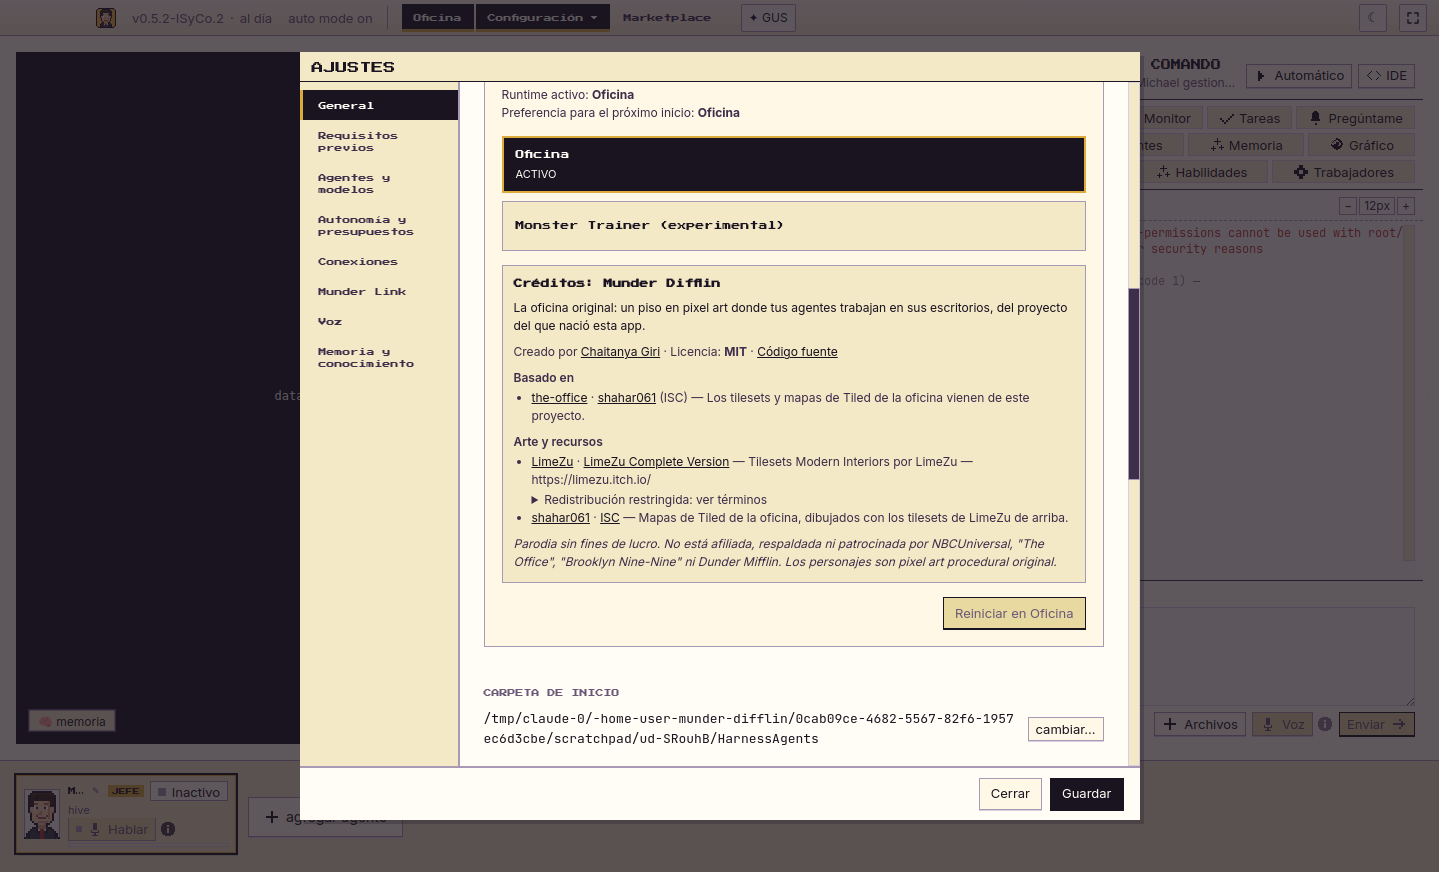
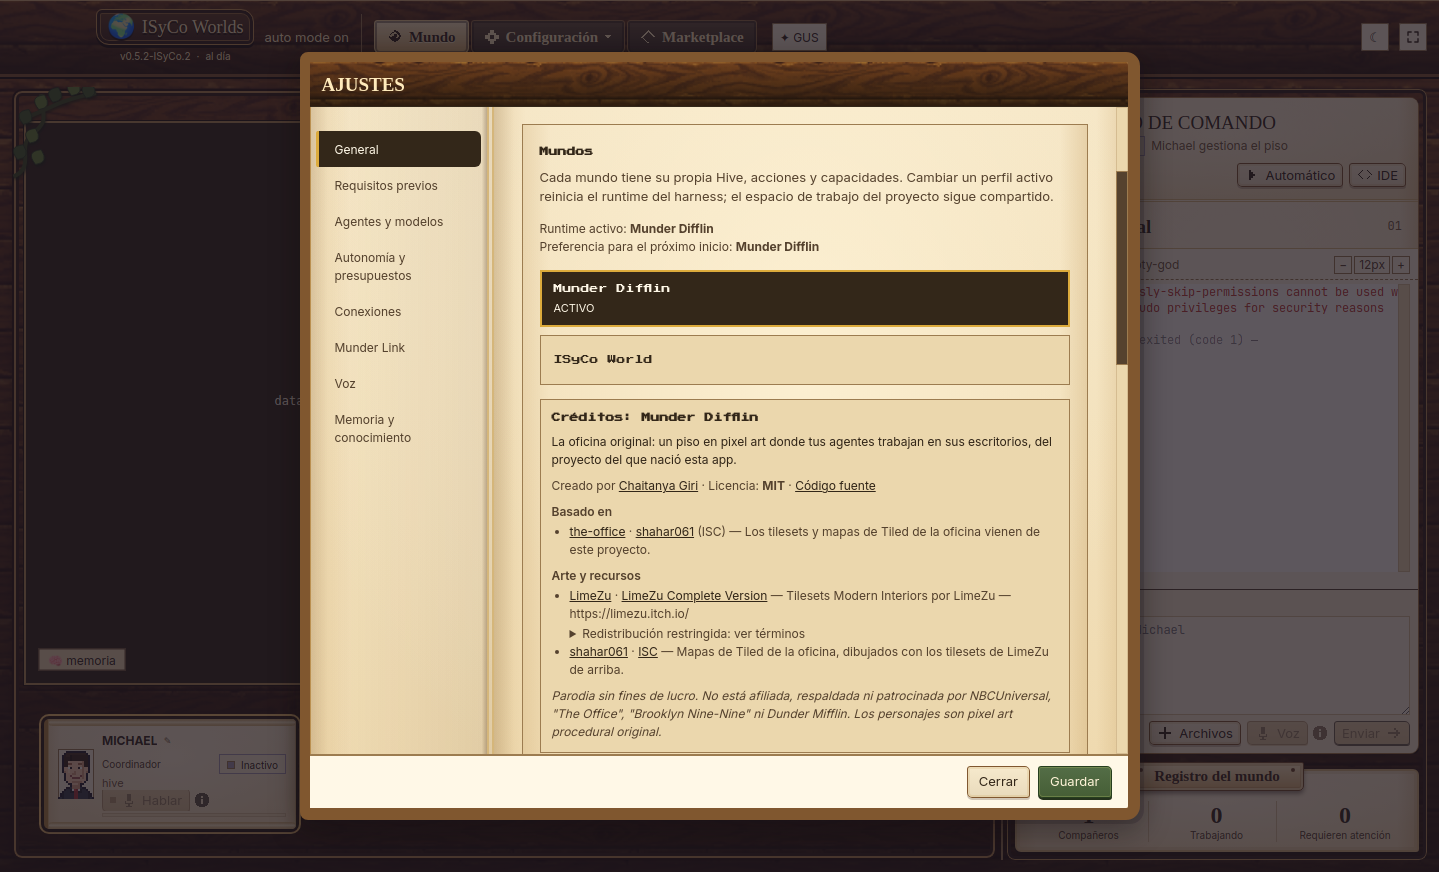
fix(worlds): el manifiesto de monster-trainer se llama ISyCo World (#61)
En la interfaz nueva el mundo monster-trainer se muestra como "ISyCo World"
(los 5 idiomas), pero su manifiesto seguía diciendo "Monster Trainer": al
elegir ISyCo World, la caja decía "Créditos: Monster Trainer".

- monster-trainer.world.json: name "ISyCo World" y descripción acorde.
- test/world-manifest.test.cjs: el name de cada manifiesto tiene que ser la
  etiqueta que muestra la app para ese mundo, en los 5 idiomas. Con el nombre
  viejo la prueba falla.
- docs/worlds: capturas nuevas con la estética de madera y pergamino, y la
  guía menciona la regla.

Claude-Session: https://claude.ai/code/session_0141jpRihLcQWr34jq6mvC7b

diff --git a/docs/worlds/MANIFEST.md b/docs/worlds/MANIFEST.md
@@ -11,9 +11,9 @@ de ponerla.
 En la app, los créditos del mundo elegido aparecen en **Configuración → General
 → Mundos**:
 
-| Munder Difflin | Monster Trainer |
+| Munder Difflin | ISyCo World |
 |---|---|
-| ![Créditos de Munder Difflin](creditos-munder-difflin.png) | ![Créditos de Monster Trainer](creditos-monster-trainer.png) |
+| ![Créditos de Munder Difflin](creditos-munder-difflin.png) | ![Créditos de ISyCo World](creditos-isyco-world.png) |
 
 ## Dónde viven
 
@@ -23,6 +23,10 @@ En la app, los créditos del mundo elegido aparecen en **Configuración → Gene
 - `src/shared/worldManifests.ts`: une cada id de mundo con su manifiesto. Si un
   mundo nuevo no tiene manifiesto, la app no compila.
 - `test/world-manifest.test.cjs`: lo que el CI exige.
+
+El `name` del manifiesto tiene que ser el mismo nombre que muestra la app para
+ese mundo (`settings.general.worlds.*` en los 5 idiomas). Si cambias uno,
+cambia el otro, o el CI falla.
 
 ## Los campos
 
@@ -81,7 +85,7 @@ idioma de quien la usa y, si no está, inglés.
   - Los tilesets son de LimeZu y están marcados como `restricted`.
   - Lleva un aviso de parodia sin fines de lucro y de no afiliación con
     NBCUniversal.
-- **Monster Trainer**:
+- **ISyCo World** (id interno `monster-trainer`):
   - Mundo original de DannyBaanks (ISyCo), con licencia MIT.
   - El arte de Starter Village es original. El detalle está en
     `src/renderer/src/assets/ATTRIBUTION.md`.
